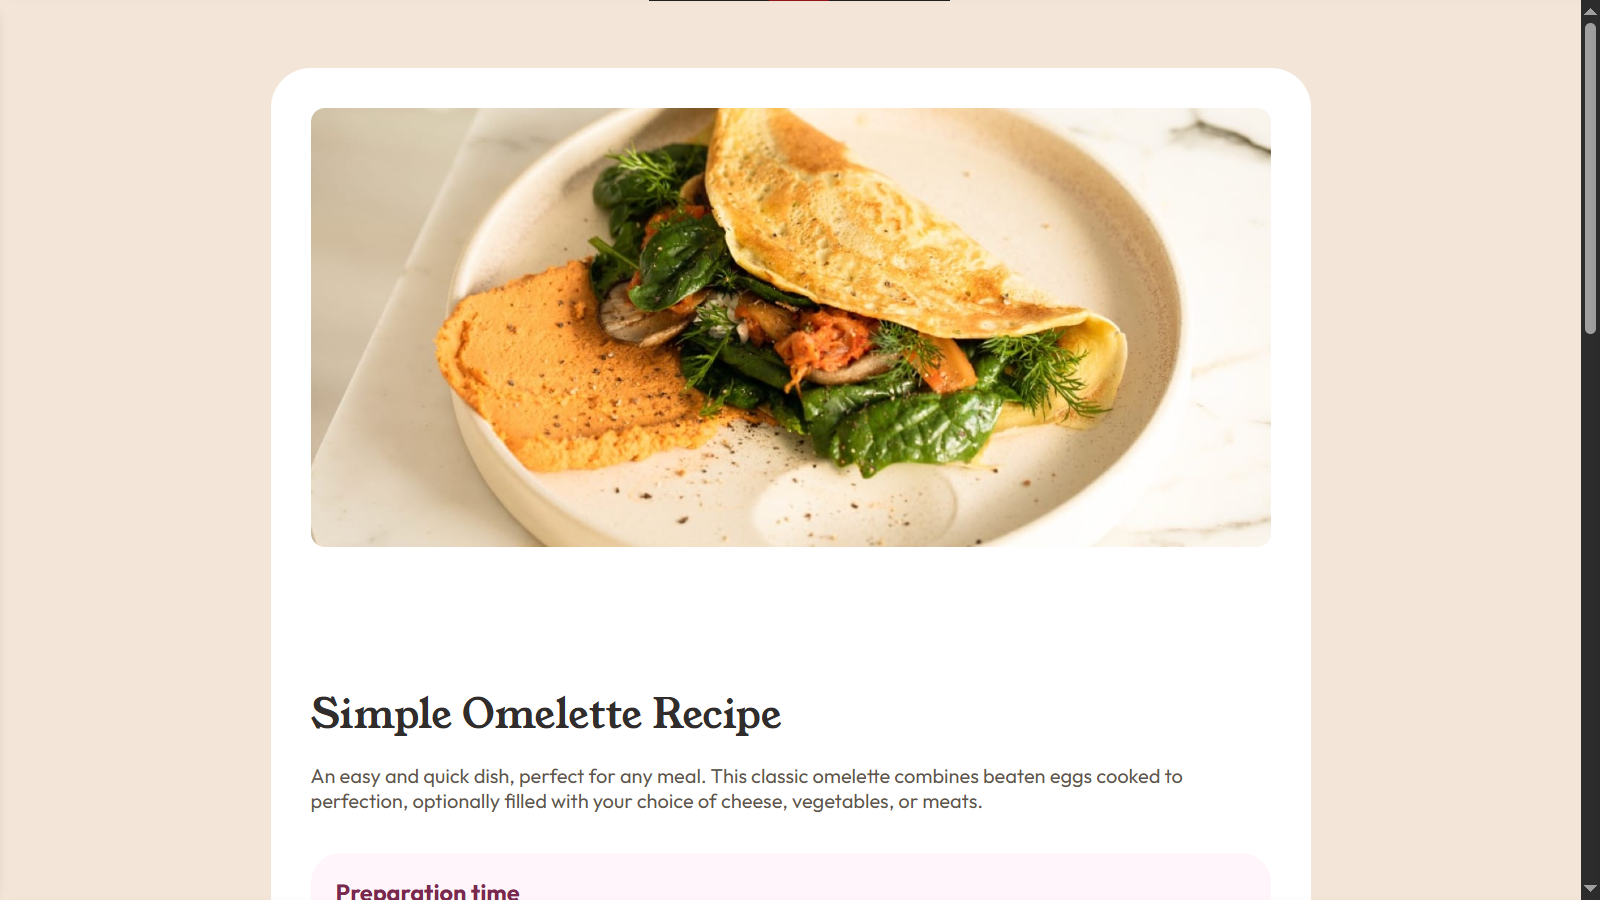
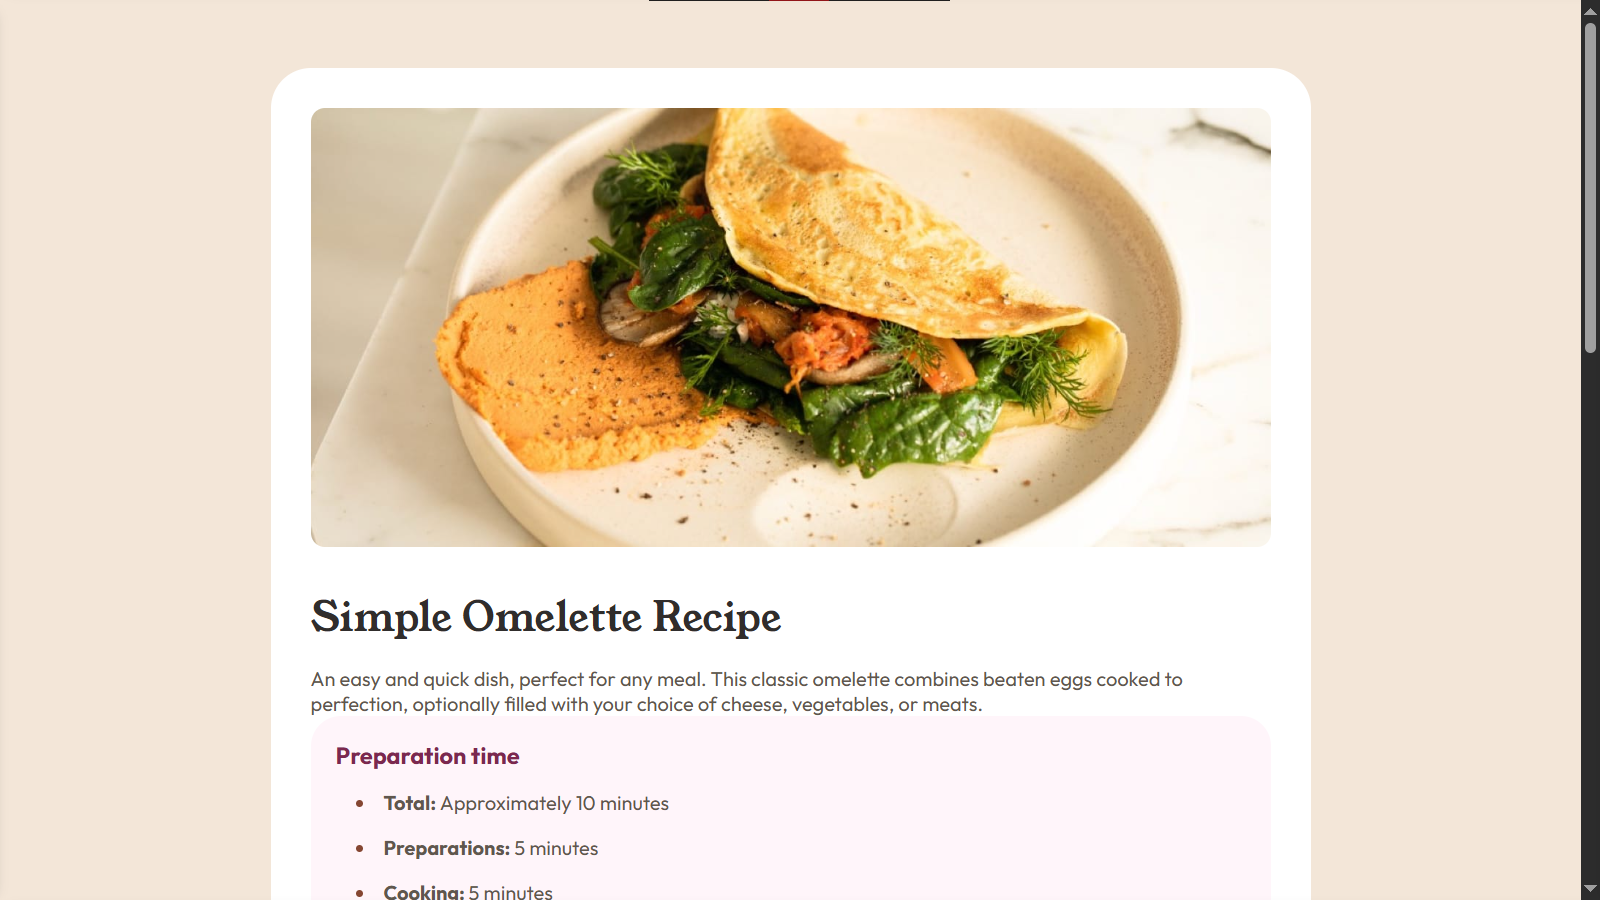
Reduce space between image and head text

diff --git a/css/style.css b/css/style.css
@@ -52,7 +52,7 @@ li {
     background: var(--white);
     font-family: Outfit, sans-serif;
     width: clamp(23.4375rem, 20rem + 40vw, 100vw);
-    gap: min(5.9vw, 186rem);
+    gap: min(5.9vw, 1.86rem);
     border-radius: min(2rem);
     margin: clamp(0.5rem, 0.2rem + 4vw, 4rem) 0;
     transition: 0.3s;
@@ -92,7 +92,6 @@ li {
     display: flex;
     flex-direction: column;
     gap: min(3.15vw, 1rem);
-    padding: min(8.3vw, 2rem) 0;
 }
 
 .prep {
@@ -216,7 +215,6 @@ li {
     }
     
     .card .txt {
-        padding: 2rem;
         width: 100%;
     }
 
